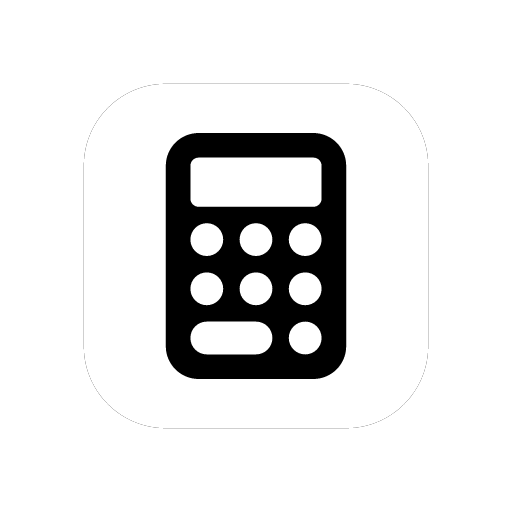
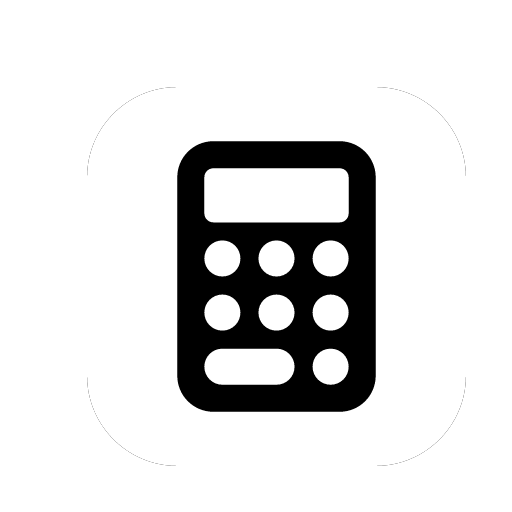
feat: scale calculator glyph 1.1x about center
Icon SVG source and all 15 PNGs regenerated at 1.1x scale (about center 25,25):
outer 4..46 -> 1.9..48.1, inner max -> 41.5, stays inside the 50x50 frame and
clear of the corners iOS crops to superellipse, so the enlarged glyph still
bleeds black at the edges (no white ring). SW cache bumped calc-v6k -> calc-v6l.
trunk and v6 snapshot kept byte-identical.

Changed region(s): [[0.3125, 0.25, 0.75, 0.8125], [0.2812, 0.1562, 0.3438, 0.1875], [0.1562, 0.2812, 0.1875, 0.3438]]

diff --git a/sw.js b/sw.js
@@ -1,4 +1,4 @@
-const CACHE = 'calc-v6k';
+const CACHE = "calc-v6l";
 const ASSETS = [
   './', './index.html', './styles.css',
   './js/app.js', './js/tokens.js', './js/state.js', './js/history.js',

diff --git a/v6/sw.js b/v6/sw.js
@@ -1,4 +1,4 @@
-const CACHE = 'calc-v6k';
+const CACHE = "calc-v6l";
 const ASSETS = [
   './', './index.html', './styles.css',
   './js/app.js', './js/tokens.js', './js/state.js', './js/history.js',
